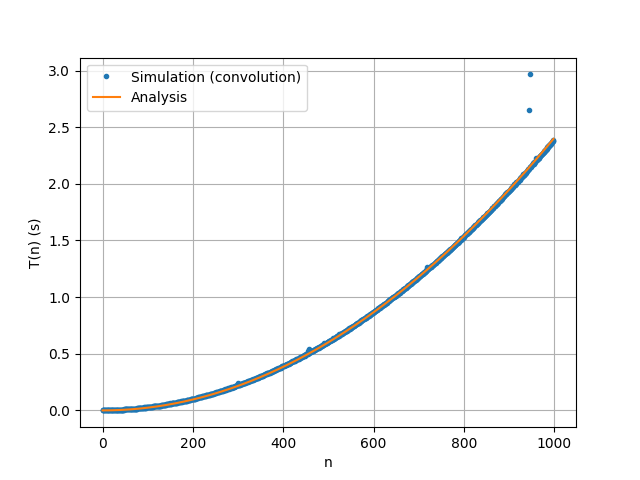
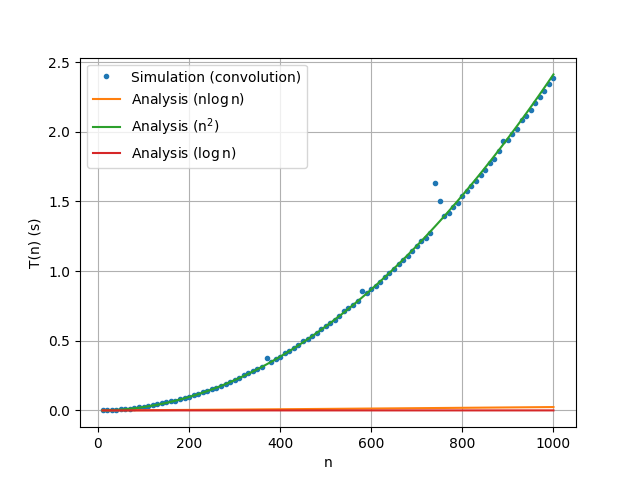
Minor code edits

diff --git a/filter/codes/6_7.c b/filter/codes/6_7.c
@@ -4,7 +4,7 @@
 #include <complex.h>
 #include <time.h>
 
-complex *myfft(int n, complex *a) { 
+complex *myfft(int n, complex *a) {
 	if (n == 1) return a;
 	complex *g = (complex *)malloc(n/2*sizeof(complex));
 	complex *h = (complex *)malloc(n/2*sizeof(complex));
@@ -47,7 +47,7 @@ int main() {
 	FILE *f1 = fopen("fft.txt", "w");
 	FILE *f2 = fopen("ifft.txt", "w");
 	FILE *f3 = fopen("conv.txt", "w");
-	for (int j = 0; j < 20; j++) {
+	for (int j = 0; j <= 20; j++) {
 		srand(time(0));
 		int n = 1 << j;
 		complex *a = (complex *)malloc(sizeof(complex)*n);
@@ -66,7 +66,7 @@ int main() {
 		fprintf(f2, "%lf\n", 1000*(double)(ifft_end - ifft_begin)/CLOCKS_PER_SEC);
 		free(a);
 	}
-	for (int j = 1; j < 1000; j++) {
+	for (int j = 10; j <= 1000; j+=10) {
 		int n = j;
 		complex *h = (complex *)malloc(sizeof(complex)*n);
 		for (int i = 0; i < n; i++) h[i] = random()/(1.0*RAND_MAX);

diff --git a/filter/codes/6_7_2.py b/filter/codes/6_7_2.py
@@ -3,18 +3,24 @@ from scipy.fft import fft, ifft
 from scipy.optimize import curve_fit
 import matplotlib.pyplot as plt
 
+def nlgn(n, a): return a*n*np.log2(n)
 def nsq(n, a): return a*n*n
+def lg(n, a): return a*np.log2(n)
 
-x = np.arange(1e3 - 1)
-a3 = np.loadtxt('conv.txt', dtype='double')
-popt, pcov = curve_fit(nsq, x, a3)
-a3pred = nsq(x, *popt)
+x = np.linspace(10, 1001, 100)
+a = np.loadtxt('conv.txt', dtype='double')
+popt, pcov = curve_fit(nsq, x, a)
+p1 = nlgn(x, *popt)
+p2 = nsq(x, *popt)
+p3 = lg(x, *popt)
 #plots
-plt.plot(x, a3, '.')
-plt.plot(x, a3pred)
+plt.plot(x, a, '.')
+plt.plot(x, p1)
+plt.plot(x, p2)
+plt.plot(x, p3)
 plt.xlabel('n')
 plt.ylabel('T(n) (s)')
-plt.legend(["Simulation (convolution)", "Analysis"])
+plt.legend(["Simulation (convolution)", "Analysis (n$\log$n)", "Analysis (n$^2$)", "Analysis ($\log$n)"])
 plt.grid()# minor
 
 #If using termux

diff --git a/filter/codes/6_7_1.py b/filter/codes/6_7_1.py
@@ -4,18 +4,23 @@ from scipy.optimize import curve_fit
 import matplotlib.pyplot as plt
 
 def nlgn(n, a): return a*n*np.log2(n)
+def nsq(n, a): return (a*n)**2
 
-a = 2**(np.arange(20))
+a = 2**(np.arange(21))
 a1 = np.loadtxt('fft.txt', dtype='double')
 a2 = np.loadtxt('ifft.txt', dtype='double')
-
+b = np.linspace(1, 2**20 + 1, 2**20)
 popt, pcov = curve_fit(nlgn, a, a2)
-a2pred = nlgn(a, *popt)
+p1 = nlgn(b, *popt)
+p2 = nsq(b, *popt)
+p3 = np.log2(b)
 #plots
 plt.plot(a, a1, 'o')
 plt.plot(a, a2, 'o')
-plt.plot(a, a2pred)
-plt.legend(["Simulation (FFT)", "Simulation (IFFT)", "Analysis"])
+plt.plot(b, p1)
+plt.plot(b, p2)
+plt.plot(b, p3)
+plt.legend(["Simulation (FFT)", "Simulation (IFFT)", "Analysis (n$\log$n)", "Analysis (n$^2$)", "Analysis ($\log$n)"])
 plt.xlabel('n')
 plt.ylabel('T(n) (ms)')
 plt.grid()# minor

diff --git a/filter/main.tex b/filter/main.tex
@@ -779,11 +779,11 @@ where the input signal is $x(n)$ and the output signal is $y(n)$ with initial va
 \textbf{signal.filtfilt} with your own routine and verify.
 
 \solution
-The implementation is at
+Download the source code by typing the next command \\
 \begin{lstlisting}
 $ wget https://raw.githubusercontent.com/goats-9/ee3900-assignments/main/filter/codes/7_1.py
 \end{lstlisting}
-and can be run using
+and run it using
 \begin{lstlisting}
 $ python3 7_1.py
 \end{lstlisting}
